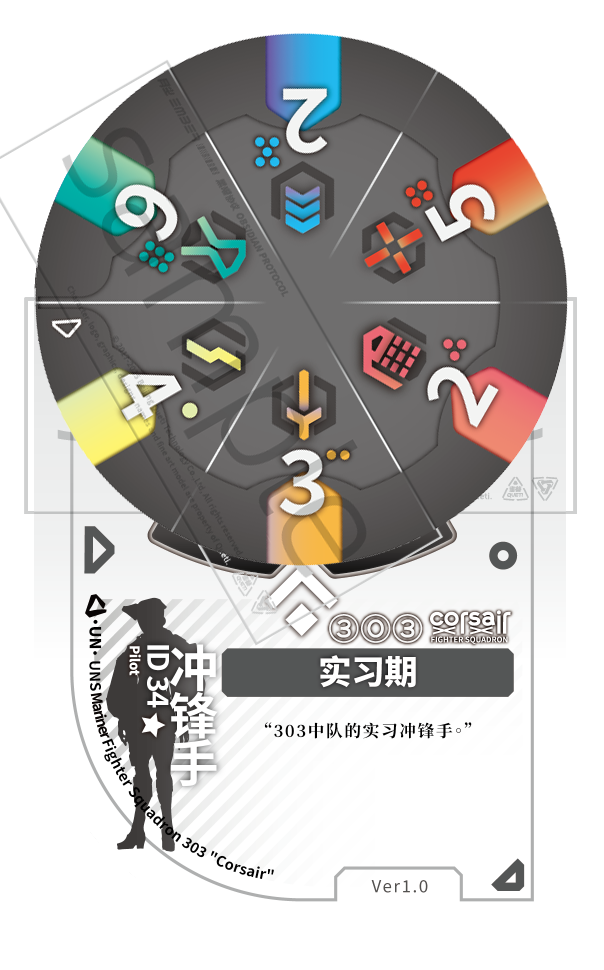
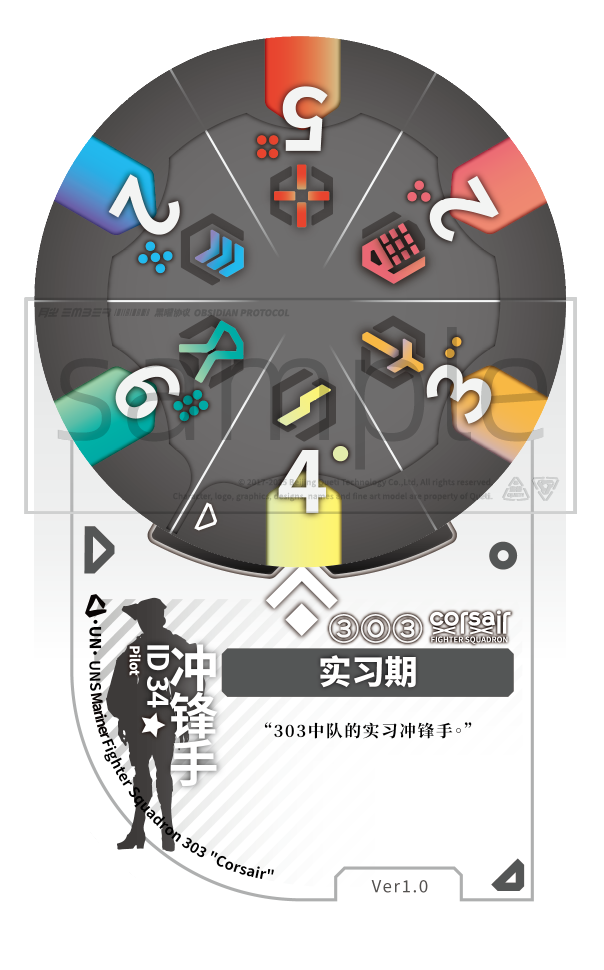
[fix]卡图和驾驶员排序bug

diff --git a/assets/index.C7SPm71z.js b/assets/index.C7SPm71z.js
@@ -336,7 +336,7 @@ For more information, see https://radix-ui.com/primitives/docs/components/${r.do
       drop-shadow(0 0 1px gray)
       drop-shadow(0 0 1px gray)
       drop-shadow(0 0 1px gray)
-    `}})})}),c.jsx(dr,{className:"border-0 shadow-none bg-transparent p-0",children:c.jsx("img",{src:`${h}/${D.id}.png`,alt:D.name,className:"w-full h-auto object-contain rounded-lg"},D.id)})]}),c.jsx(Pe,{variant:"secondary",className:"h-6 w-8 absolute bg-blue-500/50 left-0 bottom-0 shadow-lg shadow-gray-500 rounded-lg z-0",style:{color:"white",textShadow:"0 0 4px rgba(0,0,0,0.7)"},children:D?.score}),c.jsx("img",{src:`${h}/${D.id}.png`,alt:D.name,onClick:()=>d("tacticCards"),className:"shadow-lg shadow-gray-500 rounded-lg",style:{width:"100%",height:"100%",objectFit:"contain"},draggable:!1}),c.jsx(Pe,{variant:"ghost",size:"sm",onClick:te=>{te.stopPropagation(),Je(X)},className:"absolute top-0 right-0 shadow-lg shadow-gray-500 rounded-lg text-destructive hover:text-destructive",children:c.jsx(xn,{className:"w-4 h-4"})})]},`${D.id}-${X}`))),c.jsxs("div",{style:{position:"relative",display:"flex",padding:"1rem",cursor:"pointer",transition:"transform 0.3s ease, box-shadow 0.3s ease"},onClick:()=>{d("tacticCards"),T(!0)},onMouseEnter:D=>{D.currentTarget.style.transform="scale(1.03)",D.currentTarget.style.boxShadow="0 6px 10px rgba(0,0,0,0.1)"},onMouseLeave:D=>{D.currentTarget.style.transform="scale(1)",D.currentTarget.style.boxShadow="0 4px 6px rgba(0,0,0,0.05), 0 1px 3px rgba(0,0,0,0.1)"},children:[c.jsx("img",{src:`${h}/274.png`,style:{width:"100%",height:"100%",objectFit:"contain",borderRadius:"0.5rem",boxShadow:"0 4px 6px rgba(0,0,0,0.1)",opacity:0},draggable:!1}),c.jsx("div",{style:{position:"absolute",top:0,left:0,right:0,bottom:0,display:"flex",flexDirection:"column",alignItems:"center",justifyContent:"center",pointerEvents:"none"},children:c.jsx("img",{src:`${m}/tactic.png`,style:{width:"100%",height:"100%",objectFit:"contain",borderRadius:"0.5rem",boxShadow:"0 4px 6px rgba(0,0,0,0.1)",opacity:1},draggable:!1})})]})]}),!k&&e.tacticCards?.length===0&&c.jsx("div",{className:"text-center text-muted-foreground py-8",children:p.t89})]})})]})})}function VT({viewMode:e,team:r,selectedPartType:o,parts:i,drones:a,tacticCards:d,pilots:u,onSelectPart:p,onSelectDrone:f,onSelectPilot:h,onSelectTacticCard:m,onSetShowKeyword:x,translations:w,imgsrc:k,tabsrc:S,onSetHoverImg:P,onSetShowHoverImg:j,showHoverImg:T,mobileOrTablet:M,lastScore:A,lastPartId:$,lang:H,showKeyword:q}){const[B,L]=b.useState(""),[W,Q]=b.useState([]),[O,G]=b.useState(!1),[J,se]=b.useState("score_asc"),ue=b.useMemo(()=>i.filter(V=>!(V.type!==o||V.id===$||B&&!V.name.toLowerCase().includes(B.toLowerCase())||V.isPD&&!O||V.isPD===void 0&&O||W.length>0&&!W.some(_=>V.tags?.includes(_))||V.score==0)).sort((V,R)=>J==="score_desc"?R.score-V.score:V.score-R.score),[i,o,B,W,J,O]),ae=b.useMemo(()=>a.filter(V=>!(B&&!V.name.toLowerCase().includes(B.toLowerCase())||V.isPD&&!O||V.isPD===void 0&&O||V.score==0)).sort((V,R)=>J==="score_desc"?R.score-V.score:V.score-R.score),[a,B,J,O]),oe=b.useMemo(()=>{if(!d)return[];const z=new Set;return r?.tacticCards?.forEach(V=>{V?.id&&z.add(V.id)}),d.filter(V=>!(B&&!V.name.toLowerCase().includes(B.toLowerCase())||z.has(V.id)))},[d,r,B]),N=b.useMemo(()=>{const z=new Set;return r?.mechs.forEach(R=>{R.pilot&&z.add(R.pilot.id)}),u.filter(R=>!(B&&!R.name.toLowerCase().includes(B.toLowerCase())||R.faction==="PD"&&!O||R.faction!=="PD"&&O||z.has(R.id))).sort((R,_)=>J==="score_desc"?_.score-R.score:R.score-_.score)},[u,r,B,O]);return c.jsx("div",{className:"flex flex-col h-full min-h-0",children:c.jsxs(Ue,{mode:"wait",children:[e==="parts"&&c.jsxs("div",{className:"min-h-0 flex flex-col",children:[c.jsxs("div",{className:"p-4 border-b border-border space-y-4",children:[c.jsx(qn,{placeholder:w.t35,value:B,onChange:z=>L(z.target.value)}),c.jsxs("div",{className:"flex items-center justify-between space-x-4",children:[c.jsx("div",{className:"flex items-center space-x-2",children:c.jsxs(Si,{value:J,onValueChange:z=>se(z),children:[c.jsx(ki,{className:"w-[140px]",children:c.jsx(bi,{})}),c.jsxs(Ci,{children:[c.jsx(rr,{value:"score_desc",children:w.t58}),c.jsx(rr,{value:"score_asc",children:w.t59})]})]})}),c.jsxs("div",{className:"flex gap-1",children:[c.jsxs("div",{className:"flex flex-col items-center space-x-2",children:[c.jsx("input",{type:"checkbox",id:"show-hover-img",checked:T,onChange:z=>j(z.target.checked),style:{accentColor:"#ffffff"}}),c.jsx("label",{htmlFor:"show-hover-img",style:{fontSize:H==="en"?"0.6vw":"1vw"},children:w.t92})]}),c.jsxs("div",{className:"flex flex-col items-center space-x-2",children:[c.jsx("input",{type:"checkbox",id:"show-keyword",checked:q,onChange:z=>x(z.target.checked),style:{accentColor:"#ffffff"}}),c.jsx("label",{htmlFor:"show-keyword",style:{fontSize:H==="en"?"0.6vw":"1vw"},children:w.t104})]}),c.jsxs("div",{className:"flex flex-col items-center space-x-2",children:[c.jsx("input",{type:"checkbox",id:"contain-pd",checked:O,onChange:z=>G(z.target.checked),style:{accentColor:"#ffffff"}}),c.jsx("label",{htmlFor:"contain-pd",style:{fontSize:H==="en"?"0.6vw":"1vw"},children:w.t67})]})]})]})]}),c.jsx(pe.div,{initial:{opacity:0,x:60},animate:{opacity:1,x:0},exit:{opacity:0,x:-60},transition:{duration:.3},className:"min-h-0 flex flex-col",children:c.jsxs("div",{className:"flex-1 overflow-y-auto p-4",children:[c.jsx("div",{className:"grid gap-4",children:Array.from({length:Math.ceil(ue.length/3)},(z,V)=>c.jsx("div",{className:"grid grid-cols-1 gap-3",children:ue.slice(V*3,(V+1)*3).map(R=>c.jsxs(Kn,{className:"relative p-3 cursor-pointer hover:bg-accent/50 transition overflow-hidden shadow-sm",onClick:()=>p(R),onMouseEnter:_=>{P(`${R.id}`),_.currentTarget.style.transform="scale(1.05)",_.currentTarget.style.boxShadow="0 6px 10px rgba(0,0,0,0.1)"},onMouseLeave:_=>{_.currentTarget.style.transform="scale(1)",_.currentTarget.style.boxShadow="0 4px 6px rgba(0,0,0,0.05), 0 1px 3px rgba(0,0,0,0.1)"},children:[c.jsx("div",{className:"absolute inset-0 bg-contain",style:{backgroundImage:`url(${S}/${R.id}.png)`,backgroundSize:"contain",backgroundRepeat:"no-repeat",backgroundPosition:"right top",opacity:.8}}),c.jsxs("div",{className:"relative z-10 space-y-2",children:[c.jsxs("div",{className:"flex items-center gap-2",children:[c.jsxs(tr,{variant:"outline",className:"shrink-0 relative",children:[R.score,R.score!==A&&c.jsx("span",{style:{position:"absolute",top:0,left:2,fontSize:8,opacity:.5},children:R.score>A?"▲":"▼"})]}),c.jsx("h4",{className:"font-medium truncate",children:R.name})]}),c.jsxs("div",{className:"flex items-center gap-2",children:[(R.armor!==0||R.structure!==0)&&c.jsxs("div",{className:"flex flex-col items-center px-1 py-0.5 border rounded-md shadow-sm",children:[c.jsxs("div",{className:"flex items-center gap-1",children:[c.jsx("img",{loading:"lazy",src:`${S}/icon_armor.png`,alt:"armor",className:"w-4 h-4"}),c.jsx("div",{style:{fontSize:"12px",color:"var(--muted-foreground)"},children:R.structure===0?w.t39:`${w.t39}/${w.t40}`})]}),c.jsx("div",{style:{fontSize:"16px",color:R.armor<0||R.structure<0?"red":"inherit"},children:R.structure===0?R.armor:`${R.armor} / ${R.structure}`})]}),[{label:w.t41,value:R.parray,icon:"icon_parray"},{label:w.t42,value:R.dodge,icon:"icon_dodge",color:`rgba(0,120,255,${.2+Math.min(Math.max(R.dodge,1),6)*.08})`},{label:w.t43,value:R.electronic,icon:"icon_electronic",color:`rgba(255,180,0,${.2+Math.min(Math.max(R.electronic,1),6)*.08})`}].filter(_=>_.value!==0).map(_=>c.jsxs("div",{className:"flex flex-col items-center px-1 py-0.5 border rounded-md shadow-sm",children:[c.jsxs("div",{className:"flex items-center gap-1",children:[c.jsx("img",{loading:"lazy",src:`${S}/${_.icon}.png`,alt:_.label,className:"w-4 h-4"}),c.jsx("div",{style:{fontSize:"12px",color:"var(--muted-foreground)"},children:_.label})]}),c.jsx("div",{style:{fontSize:"16px",color:_.value<0?"red":_.color||"inherit"},children:_.value})]},_.label))]}),c.jsx("p",{className:"text-sm text-muted-foreground line-clamp-2",children:R.description}),R.tags&&R.tags.length>0&&c.jsx("div",{className:"flex flex-wrap gap-1",children:R.tags.map(_=>c.jsx(tr,{variant:"secondary",className:"text-xs",children:_},_))})]})]},R.id))},V))}),ue.length===0&&c.jsx("div",{className:"text-center text-muted-foreground py-8",children:w.t44})]})},`${o}`)]}),e==="pilots"&&c.jsxs("div",{className:"min-h-0 flex flex-col",children:[c.jsxs("div",{className:"flex-shrink-0 p-4 border-b border-border space-y-4",children:[c.jsx(qn,{placeholder:w.t46,value:B,onChange:z=>L(z.target.value)}),c.jsxs("div",{className:"flex items-center justify-between space-x-4",children:[c.jsx("div",{className:"flex items-center space-x-2",children:c.jsxs(Si,{value:J,onValueChange:z=>se(z),children:[c.jsx(ki,{className:"w-[140px]",children:c.jsx(bi,{})}),c.jsxs(Ci,{children:[c.jsx(rr,{value:"score_desc",children:w.t58}),c.jsx(rr,{value:"score_asc",children:w.t59})]})]})}),c.jsx("div",{children:c.jsxs("div",{className:"flex gap-1",children:[c.jsxs("div",{className:"flex flex-col items-center space-x-2",children:[c.jsx("input",{type:"checkbox",id:"show-hover-img",checked:T,onChange:z=>j(z.target.checked),style:{accentColor:"#ffffff",fontSize:H}}),c.jsx("label",{htmlFor:"show-hover-img",style:{fontSize:H==="en"?"0.6vw":"1vw"},children:w.t92})]}),c.jsxs("div",{className:"flex flex-col items-center space-x-2",children:[c.jsx("input",{type:"checkbox",id:"contain-pd",checked:O,onChange:z=>G(z.target.checked),style:{accentColor:"#ffffff",backgroundColor:"#ffffff"}}),c.jsx("label",{htmlFor:"contain-pd",style:{fontSize:H==="en"?"0.6vw":"1vw"},children:w.t67})]})]})})]})]}),c.jsx(pe.div,{initial:{opacity:0,x:60},animate:{opacity:1,x:0},exit:{opacity:0,x:-60},transition:{duration:.3},className:"min-h-0 flex flex-col",children:c.jsxs("div",{className:"flex-1 overflow-y-auto p-4 space-y-3",children:[N.map(z=>c.jsxs(Kn,{className:"p-4 cursor-pointer hover:bg-accent/50 transition relative overflow-hidden shadow-sm",onClick:()=>h(z),onMouseEnter:V=>{P(`${z.id}`),V.currentTarget.style.transform="scale(1.05)",V.currentTarget.style.boxShadow="0 6px 10px rgba(0,0,0,0.1)"},onMouseLeave:V=>{V.currentTarget.style.transform="scale(1)",V.currentTarget.style.boxShadow="0 4px 6px rgba(0,0,0,0.05), 0 1px 3px rgba(0,0,0,0.1)"},children:[c.jsx("div",{className:"absolute inset-0 bg-cover bg-left-top",style:{backgroundImage:`url(${S}/${z.id}.png)`,backgroundSize:"contain",backgroundRepeat:"no-repeat",backgroundPosition:"right top",opacity:.4}}),c.jsxs("div",{className:"relative z-10 space-y-2",children:[c.jsxs("div",{className:"flex items-center justify-between",children:[c.jsx("h4",{className:"font-medium",children:z.name}),c.jsxs(tr,{variant:"outline",className:"relative",children:[z.score,z.score!==A&&c.jsx("span",{style:{position:"absolute",top:0,right:2,fontSize:8,opacity:.5},children:z.score>A?"▲":"▼"})]})]}),c.jsx("div",{className:"flex items-stretch gap-1 w-full",children:[{value:z.swift,icon:"icon_swift"},{value:z.melee,icon:"icon_melee"},{value:z.projectile,icon:"icon_projectile"},{value:z.firing,icon:"icon_firing"},{value:z.moving,icon:"icon_moving"},{value:z.tactic,icon:"icon_tactic"}].map(({value:V,icon:R})=>c.jsxs("div",{className:"flex-1 flex flex-col items-center justify-center h-16 border rounded-md shadow-sm",children:[c.jsx("img",{src:`${S}/${R}.png`,alt:R,width:30,height:30,className:"object-contain",loading:"lazy"}),c.jsx("div",{className:"text-[10px] mt-0.5",children:V})]},R))}),z.traitDescription&&c.jsx("div",{className:"space-y-2",children:c.jsx("p",{className:"text-sm text-muted-foreground",style:{color:"white",textShadow:`
+    `}})})}),c.jsx(dr,{className:"border-0 shadow-none bg-transparent p-0",children:c.jsx("img",{src:`${h}/${D.id}.png`,alt:D.name,className:"w-full h-auto object-contain rounded-lg"},D.id)})]}),c.jsx(Pe,{variant:"secondary",className:"h-6 w-8 absolute bg-blue-500/50 left-0 bottom-0 shadow-lg shadow-gray-500 rounded-lg z-0",style:{color:"white",textShadow:"0 0 4px rgba(0,0,0,0.7)"},children:D?.score}),c.jsx("img",{src:`${h}/${D.id}.png`,alt:D.name,onClick:()=>d("tacticCards"),className:"shadow-lg shadow-gray-500 rounded-lg",style:{width:"100%",height:"100%",objectFit:"contain"},draggable:!1}),c.jsx(Pe,{variant:"ghost",size:"sm",onClick:te=>{te.stopPropagation(),Je(X)},className:"absolute top-0 right-0 shadow-lg shadow-gray-500 rounded-lg text-destructive hover:text-destructive",children:c.jsx(xn,{className:"w-4 h-4"})})]},`${D.id}-${X}`))),c.jsxs("div",{style:{position:"relative",display:"flex",padding:"1rem",cursor:"pointer",transition:"transform 0.3s ease, box-shadow 0.3s ease"},onClick:()=>{d("tacticCards"),T(!0)},onMouseEnter:D=>{D.currentTarget.style.transform="scale(1.03)",D.currentTarget.style.boxShadow="0 6px 10px rgba(0,0,0,0.1)"},onMouseLeave:D=>{D.currentTarget.style.transform="scale(1)",D.currentTarget.style.boxShadow="0 4px 6px rgba(0,0,0,0.05), 0 1px 3px rgba(0,0,0,0.1)"},children:[c.jsx("img",{src:`${h}/274.png`,style:{width:"100%",height:"100%",objectFit:"contain",borderRadius:"0.5rem",boxShadow:"0 4px 6px rgba(0,0,0,0.1)",opacity:0},draggable:!1}),c.jsx("div",{style:{position:"absolute",top:0,left:0,right:0,bottom:0,display:"flex",flexDirection:"column",alignItems:"center",justifyContent:"center",pointerEvents:"none"},children:c.jsx("img",{src:`${m}/tactic.png`,style:{width:"100%",height:"100%",objectFit:"contain",borderRadius:"0.5rem",boxShadow:"0 4px 6px rgba(0,0,0,0.1)",opacity:1},draggable:!1})})]})]}),!k&&e.tacticCards?.length===0&&c.jsx("div",{className:"text-center text-muted-foreground py-8",children:p.t89})]})})]})})}function VT({viewMode:e,team:r,selectedPartType:o,parts:i,drones:a,tacticCards:d,pilots:u,onSelectPart:p,onSelectDrone:f,onSelectPilot:h,onSelectTacticCard:m,onSetShowKeyword:x,translations:w,imgsrc:k,tabsrc:S,onSetHoverImg:P,onSetShowHoverImg:j,showHoverImg:T,mobileOrTablet:M,lastScore:A,lastPartId:$,lang:H,showKeyword:q}){const[B,L]=b.useState(""),[W,Q]=b.useState([]),[O,G]=b.useState(!1),[J,se]=b.useState("score_asc"),ue=b.useMemo(()=>i.filter(V=>!(V.type!==o||V.id===$||B&&!V.name.toLowerCase().includes(B.toLowerCase())||V.isPD&&!O||V.isPD===void 0&&O||W.length>0&&!W.some(_=>V.tags?.includes(_))||V.score==0)).sort((V,R)=>J==="score_desc"?R.score-V.score:V.score-R.score),[i,o,B,W,J,O]),ae=b.useMemo(()=>a.filter(V=>!(B&&!V.name.toLowerCase().includes(B.toLowerCase())||V.isPD&&!O||V.isPD===void 0&&O||V.score==0)).sort((V,R)=>J==="score_desc"?R.score-V.score:V.score-R.score),[a,B,J,O]),oe=b.useMemo(()=>{if(!d)return[];const z=new Set;return r?.tacticCards?.forEach(V=>{V?.id&&z.add(V.id)}),d.filter(V=>!(B&&!V.name.toLowerCase().includes(B.toLowerCase())||z.has(V.id)))},[d,r,B]),N=b.useMemo(()=>{const z=new Set;return r?.mechs.forEach(R=>{R.pilot&&z.add(R.pilot.id)}),u.filter(R=>!(B&&!R.name.toLowerCase().includes(B.toLowerCase())||R.faction==="PD"&&!O||R.faction!=="PD"&&O||z.has(R.id))).sort((R,_)=>J==="score_desc"?_.score-R.score:R.score-_.score)},[u,r,B,O,J]);return c.jsx("div",{className:"flex flex-col h-full min-h-0",children:c.jsxs(Ue,{mode:"wait",children:[e==="parts"&&c.jsxs("div",{className:"min-h-0 flex flex-col",children:[c.jsxs("div",{className:"p-4 border-b border-border space-y-4",children:[c.jsx(qn,{placeholder:w.t35,value:B,onChange:z=>L(z.target.value)}),c.jsxs("div",{className:"flex items-center justify-between space-x-4",children:[c.jsx("div",{className:"flex items-center space-x-2",children:c.jsxs(Si,{value:J,onValueChange:z=>se(z),children:[c.jsx(ki,{className:"w-[140px]",children:c.jsx(bi,{})}),c.jsxs(Ci,{children:[c.jsx(rr,{value:"score_desc",children:w.t58}),c.jsx(rr,{value:"score_asc",children:w.t59})]})]})}),c.jsxs("div",{className:"flex gap-1",children:[c.jsxs("div",{className:"flex flex-col items-center space-x-2",children:[c.jsx("input",{type:"checkbox",id:"show-hover-img",checked:T,onChange:z=>j(z.target.checked),style:{accentColor:"#ffffff"}}),c.jsx("label",{htmlFor:"show-hover-img",style:{fontSize:H==="en"?"0.6vw":"1vw"},children:w.t92})]}),c.jsxs("div",{className:"flex flex-col items-center space-x-2",children:[c.jsx("input",{type:"checkbox",id:"show-keyword",checked:q,onChange:z=>x(z.target.checked),style:{accentColor:"#ffffff"}}),c.jsx("label",{htmlFor:"show-keyword",style:{fontSize:H==="en"?"0.6vw":"1vw"},children:w.t104})]}),c.jsxs("div",{className:"flex flex-col items-center space-x-2",children:[c.jsx("input",{type:"checkbox",id:"contain-pd",checked:O,onChange:z=>G(z.target.checked),style:{accentColor:"#ffffff"}}),c.jsx("label",{htmlFor:"contain-pd",style:{fontSize:H==="en"?"0.6vw":"1vw"},children:w.t67})]})]})]})]}),c.jsx(pe.div,{initial:{opacity:0,x:60},animate:{opacity:1,x:0},exit:{opacity:0,x:-60},transition:{duration:.3},className:"min-h-0 flex flex-col",children:c.jsxs("div",{className:"flex-1 overflow-y-auto p-4",children:[c.jsx("div",{className:"grid gap-4",children:Array.from({length:Math.ceil(ue.length/3)},(z,V)=>c.jsx("div",{className:"grid grid-cols-1 gap-3",children:ue.slice(V*3,(V+1)*3).map(R=>c.jsxs(Kn,{className:"relative p-3 cursor-pointer hover:bg-accent/50 transition overflow-hidden shadow-sm",onClick:()=>p(R),onMouseEnter:_=>{P(`${R.id}`),_.currentTarget.style.transform="scale(1.05)",_.currentTarget.style.boxShadow="0 6px 10px rgba(0,0,0,0.1)"},onMouseLeave:_=>{_.currentTarget.style.transform="scale(1)",_.currentTarget.style.boxShadow="0 4px 6px rgba(0,0,0,0.05), 0 1px 3px rgba(0,0,0,0.1)"},children:[c.jsx("div",{className:"absolute inset-0 bg-contain",style:{backgroundImage:`url(${S}/${R.id}.png)`,backgroundSize:"contain",backgroundRepeat:"no-repeat",backgroundPosition:"right top",opacity:.8}}),c.jsxs("div",{className:"relative z-10 space-y-2",children:[c.jsxs("div",{className:"flex items-center gap-2",children:[c.jsxs(tr,{variant:"outline",className:"shrink-0 relative",children:[R.score,R.score!==A&&c.jsx("span",{style:{position:"absolute",top:0,left:2,fontSize:8,opacity:.5},children:R.score>A?"▲":"▼"})]}),c.jsx("h4",{className:"font-medium truncate",children:R.name})]}),c.jsxs("div",{className:"flex items-center gap-2",children:[(R.armor!==0||R.structure!==0)&&c.jsxs("div",{className:"flex flex-col items-center px-1 py-0.5 border rounded-md shadow-sm",children:[c.jsxs("div",{className:"flex items-center gap-1",children:[c.jsx("img",{loading:"lazy",src:`${S}/icon_armor.png`,alt:"armor",className:"w-4 h-4"}),c.jsx("div",{style:{fontSize:"12px",color:"var(--muted-foreground)"},children:R.structure===0?w.t39:`${w.t39}/${w.t40}`})]}),c.jsx("div",{style:{fontSize:"16px",color:R.armor<0||R.structure<0?"red":"inherit"},children:R.structure===0?R.armor:`${R.armor} / ${R.structure}`})]}),[{label:w.t41,value:R.parray,icon:"icon_parray"},{label:w.t42,value:R.dodge,icon:"icon_dodge",color:`rgba(0,120,255,${.2+Math.min(Math.max(R.dodge,1),6)*.08})`},{label:w.t43,value:R.electronic,icon:"icon_electronic",color:`rgba(255,180,0,${.2+Math.min(Math.max(R.electronic,1),6)*.08})`}].filter(_=>_.value!==0).map(_=>c.jsxs("div",{className:"flex flex-col items-center px-1 py-0.5 border rounded-md shadow-sm",children:[c.jsxs("div",{className:"flex items-center gap-1",children:[c.jsx("img",{loading:"lazy",src:`${S}/${_.icon}.png`,alt:_.label,className:"w-4 h-4"}),c.jsx("div",{style:{fontSize:"12px",color:"var(--muted-foreground)"},children:_.label})]}),c.jsx("div",{style:{fontSize:"16px",color:_.value<0?"red":_.color||"inherit"},children:_.value})]},_.label))]}),c.jsx("p",{className:"text-sm text-muted-foreground line-clamp-2",children:R.description}),R.tags&&R.tags.length>0&&c.jsx("div",{className:"flex flex-wrap gap-1",children:R.tags.map(_=>c.jsx(tr,{variant:"secondary",className:"text-xs",children:_},_))})]})]},R.id))},V))}),ue.length===0&&c.jsx("div",{className:"text-center text-muted-foreground py-8",children:w.t44})]})},`${o}`)]}),e==="pilots"&&c.jsxs("div",{className:"min-h-0 flex flex-col",children:[c.jsxs("div",{className:"flex-shrink-0 p-4 border-b border-border space-y-4",children:[c.jsx(qn,{placeholder:w.t46,value:B,onChange:z=>L(z.target.value)}),c.jsxs("div",{className:"flex items-center justify-between space-x-4",children:[c.jsx("div",{className:"flex items-center space-x-2",children:c.jsxs(Si,{value:J,onValueChange:z=>se(z),children:[c.jsx(ki,{className:"w-[140px]",children:c.jsx(bi,{})}),c.jsxs(Ci,{children:[c.jsx(rr,{value:"score_desc",children:w.t58}),c.jsx(rr,{value:"score_asc",children:w.t59})]})]})}),c.jsx("div",{children:c.jsxs("div",{className:"flex gap-1",children:[c.jsxs("div",{className:"flex flex-col items-center space-x-2",children:[c.jsx("input",{type:"checkbox",id:"show-hover-img",checked:T,onChange:z=>j(z.target.checked),style:{accentColor:"#ffffff",fontSize:H}}),c.jsx("label",{htmlFor:"show-hover-img",style:{fontSize:H==="en"?"0.6vw":"1vw"},children:w.t92})]}),c.jsxs("div",{className:"flex flex-col items-center space-x-2",children:[c.jsx("input",{type:"checkbox",id:"contain-pd",checked:O,onChange:z=>G(z.target.checked),style:{accentColor:"#ffffff",backgroundColor:"#ffffff"}}),c.jsx("label",{htmlFor:"contain-pd",style:{fontSize:H==="en"?"0.6vw":"1vw"},children:w.t67})]})]})})]})]}),c.jsx(pe.div,{initial:{opacity:0,x:60},animate:{opacity:1,x:0},exit:{opacity:0,x:-60},transition:{duration:.3},className:"min-h-0 flex flex-col",children:c.jsxs("div",{className:"flex-1 overflow-y-auto p-4 space-y-3",children:[N.map(z=>c.jsxs(Kn,{className:"p-4 cursor-pointer hover:bg-accent/50 transition relative overflow-hidden shadow-sm",onClick:()=>h(z),onMouseEnter:V=>{P(`${z.id}`),V.currentTarget.style.transform="scale(1.05)",V.currentTarget.style.boxShadow="0 6px 10px rgba(0,0,0,0.1)"},onMouseLeave:V=>{V.currentTarget.style.transform="scale(1)",V.currentTarget.style.boxShadow="0 4px 6px rgba(0,0,0,0.05), 0 1px 3px rgba(0,0,0,0.1)"},children:[c.jsx("div",{className:"absolute inset-0 bg-cover bg-left-top",style:{backgroundImage:`url(${S}/${z.id}.png)`,backgroundSize:"contain",backgroundRepeat:"no-repeat",backgroundPosition:"right top",opacity:.4}}),c.jsxs("div",{className:"relative z-10 space-y-2",children:[c.jsxs("div",{className:"flex items-center justify-between",children:[c.jsx("h4",{className:"font-medium",children:z.name}),c.jsxs(tr,{variant:"outline",className:"relative",children:[z.score,z.score!==A&&c.jsx("span",{style:{position:"absolute",top:0,right:2,fontSize:8,opacity:.5},children:z.score>A?"▲":"▼"})]})]}),c.jsx("div",{className:"flex items-stretch gap-1 w-full",children:[{value:z.swift,icon:"icon_swift"},{value:z.melee,icon:"icon_melee"},{value:z.projectile,icon:"icon_projectile"},{value:z.firing,icon:"icon_firing"},{value:z.moving,icon:"icon_moving"},{value:z.tactic,icon:"icon_tactic"}].map(({value:V,icon:R})=>c.jsxs("div",{className:"flex-1 flex flex-col items-center justify-center h-16 border rounded-md shadow-sm",children:[c.jsx("img",{src:`${S}/${R}.png`,alt:R,width:30,height:30,className:"object-contain",loading:"lazy"}),c.jsx("div",{className:"text-[10px] mt-0.5",children:V})]},R))}),z.traitDescription&&c.jsx("div",{className:"space-y-2",children:c.jsx("p",{className:"text-sm text-muted-foreground",style:{color:"white",textShadow:`
           -1px -1px  #000,
            1px -1px  #000,
           -1px  1px #000,

diff --git a/index.html b/index.html
@@ -44,7 +44,7 @@ var _hmt = _hmt || [];
 
 
   <!-- ✅ 主入口脚本 -->
-  <script type="module" crossorigin src="/builder-web/assets/index.Hu7s8Ipb.js"></script>
+  <script type="module" crossorigin src="/builder-web/assets/index.C7SPm71z.js"></script>
   <link rel="stylesheet" crossorigin href="/builder-web/assets/index.BbE98JH4.css">
 </head>
 
